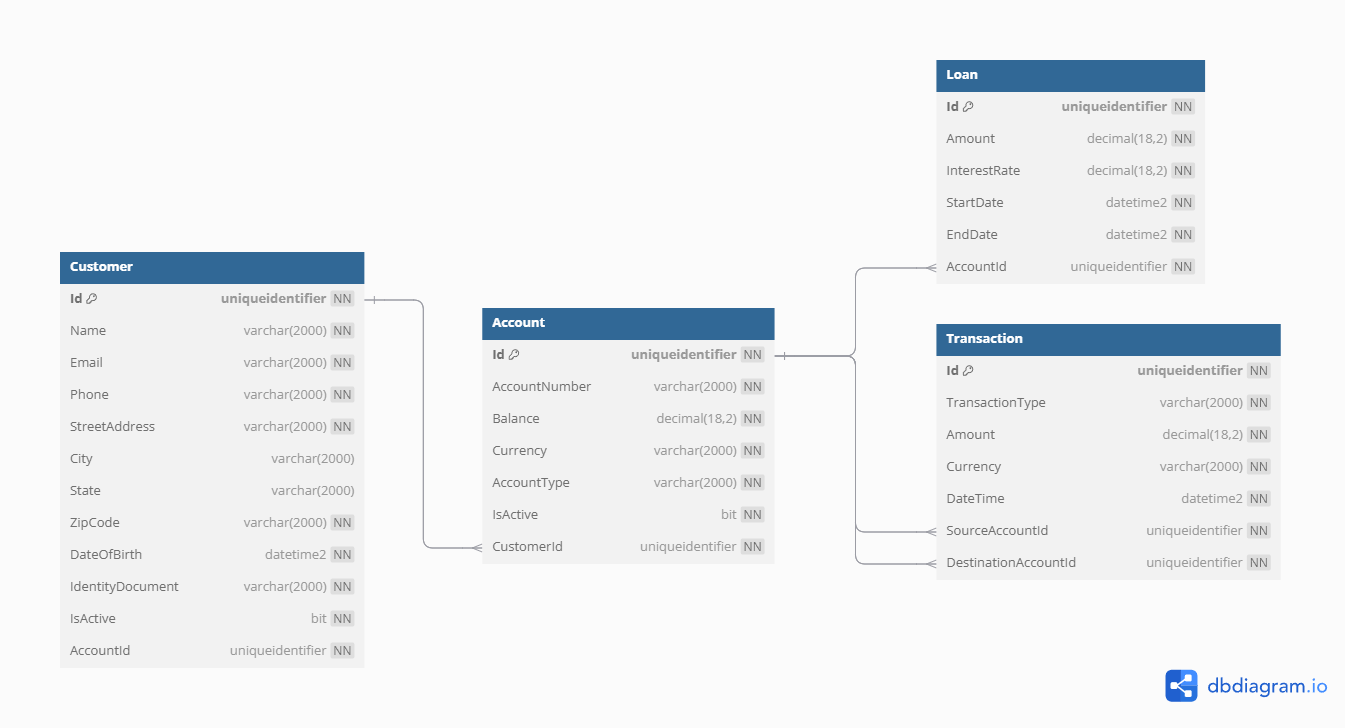
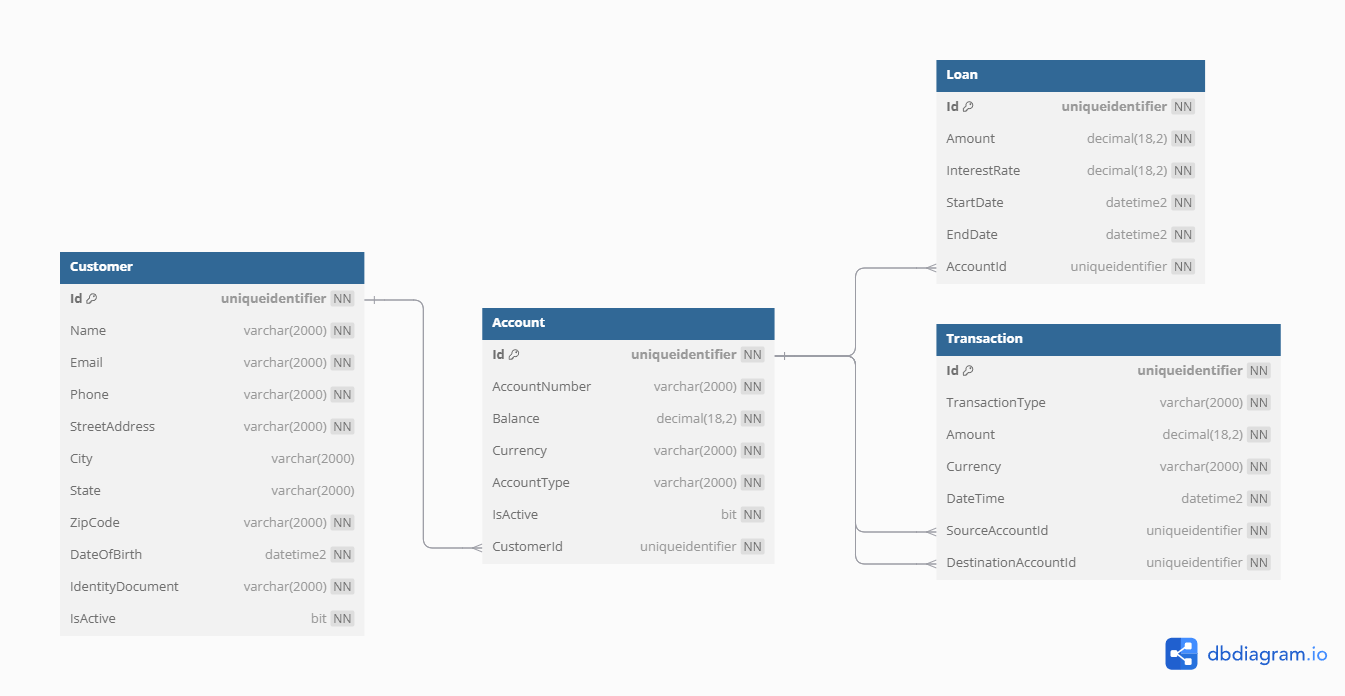
updated initial migration and seed database script

diff --git a/src/ReactBank.Infra.Data/Migrations/20241023234019_SeedData.cs b/src/ReactBank.Infra.Data/Migrations/20241023234019_SeedData.cs
@@ -1,0 +1,71 @@
+using System;
+using Microsoft.EntityFrameworkCore.Migrations;
+
+#nullable disable
+
+#pragma warning disable CA1814 // Prefer jagged arrays over multidimensional
+
+namespace ReactBank.Infra.Data.Migrations
+{
+    /// <inheritdoc />
+    public partial class SeedData : Migration
+    {
+        /// <inheritdoc />
+        protected override void Up(MigrationBuilder migrationBuilder)
+        {
+            migrationBuilder.InsertData(
+                table: "Customer",
+                columns: new[] { "Id", "City", "DateOfBirth", "Email", "IdentityDocument", "IsActive", "Name", "Phone", "State", "StreetAddress", "ZipCode" },
+                values: new object[,]
+                {
+                    { new Guid("849b24e4-f29a-4fb4-91b7-7a9b65795bf6"), "New York", new DateTime(1980, 1, 1, 0, 0, 0, 0, DateTimeKind.Unspecified), "john.doe@gmail.com", "123456789", true, "John Doe", "123456789", "NY", "123 Main St", "12345" },
+                    { new Guid("888b24e4-f29a-4fb4-91b7-7a9b65795bf6"), "New York", new DateTime(1995, 1, 2, 0, 0, 0, 0, DateTimeKind.Unspecified), "son.doe@gmail.com", "823456789", false, "Son Doe", "823456789", "NY", "125 Main St", "12347" },
+                    { new Guid("889b24e4-f29a-4fb4-91b7-7a9b65795bf6"), "New York", new DateTime(1980, 1, 2, 0, 0, 0, 0, DateTimeKind.Unspecified), "mary.doe@gmail.com", "923456789", true, "Mary Doe", "923456789", "NY", "124 Main St", "12346" }
+                });
+
+            migrationBuilder.InsertData(
+                table: "Account",
+                columns: new[] { "Id", "AccountNumber", "AccountType", "Balance", "Currency", "CustomerId", "IsActive" },
+                values: new object[,]
+                {
+                    { new Guid("ba669725-8233-434a-9b1e-751dd752e419"), "123456789", "Checking Account", 1000m, "US$", new Guid("849b24e4-f29a-4fb4-91b7-7a9b65795bf6"), true },
+                    { new Guid("ba769725-8233-434a-9b1e-751dd752e419"), "923456789", "Saving Account", 900m, "US$", new Guid("889b24e4-f29a-4fb4-91b7-7a9b65795bf6"), true },
+                    { new Guid("ba869725-8233-434a-9b1e-751dd752e419"), "823456789", "Student Account", 850m, "US$", new Guid("888b24e4-f29a-4fb4-91b7-7a9b65795bf6"), false }
+                });
+        }
+
+        /// <inheritdoc />
+        protected override void Down(MigrationBuilder migrationBuilder)
+        {
+            migrationBuilder.DeleteData(
+                table: "Account",
+                keyColumn: "Id",
+                keyValue: new Guid("ba669725-8233-434a-9b1e-751dd752e419"));
+
+            migrationBuilder.DeleteData(
+                table: "Account",
+                keyColumn: "Id",
+                keyValue: new Guid("ba769725-8233-434a-9b1e-751dd752e419"));
+
+            migrationBuilder.DeleteData(
+                table: "Account",
+                keyColumn: "Id",
+                keyValue: new Guid("ba869725-8233-434a-9b1e-751dd752e419"));
+
+            migrationBuilder.DeleteData(
+                table: "Customer",
+                keyColumn: "Id",
+                keyValue: new Guid("849b24e4-f29a-4fb4-91b7-7a9b65795bf6"));
+
+            migrationBuilder.DeleteData(
+                table: "Customer",
+                keyColumn: "Id",
+                keyValue: new Guid("888b24e4-f29a-4fb4-91b7-7a9b65795bf6"));
+
+            migrationBuilder.DeleteData(
+                table: "Customer",
+                keyColumn: "Id",
+                keyValue: new Guid("889b24e4-f29a-4fb4-91b7-7a9b65795bf6"));
+        }
+    }
+}

diff --git a/src/ReactBank.Infra.Data/Context/Configurations/CustomerEntityTypeConfiguration.cs b/src/ReactBank.Infra.Data/Context/Configurations/CustomerEntityTypeConfiguration.cs
@@ -10,6 +10,7 @@ namespace ReactBank.Infra.Data.Context.Configurations
         {
             base.Configure(builder);
 
+            //Property configurations
             builder.Property(x => x.Name)
                 .IsRequired();
 
@@ -28,12 +29,57 @@ namespace ReactBank.Infra.Data.Context.Configurations
             builder.Property(x => x.ZipCode)
                 .IsRequired();
 
+            //Index configurations
             builder.HasIndex(x => x.Name);
             builder.HasIndex(x => x.Email);
 
-            builder.HasOne(x => x.Account)
-                .WithOne(x => x.Customer)
-                .HasForeignKey<Account>(x => x.CustomerId);
+            //Global query filter
+            builder.HasQueryFilter(x => x.IsActive);
+
+            //Seed data
+            builder.HasData(
+                new Customer
+                {
+                    Id = Guid.Parse("849b24e4-f29a-4fb4-91b7-7a9b65795bf6"),
+                    IsActive = true,
+                    Name = "John Doe",
+                    IdentityDocument = "123456789",
+                    Phone = "123456789",
+                    StreetAddress = "123 Main St",
+                    ZipCode = "12345",
+                    State = "NY",
+                    City = "New York",
+                    DateOfBirth = new DateTime(1980, 1, 1),
+                    Email = "john.doe@gmail.com"
+                },
+                new Customer
+                {
+                    Id = Guid.Parse("889b24e4-f29a-4fb4-91b7-7a9b65795bf6"),
+                    IsActive = true,
+                    Name = "Mary Doe",
+                    IdentityDocument = "923456789",
+                    Phone = "923456789",
+                    StreetAddress = "124 Main St",
+                    ZipCode = "12346",
+                    State = "NY",
+                    City = "New York",
+                    DateOfBirth = new DateTime(1980, 1, 2),
+                    Email = "mary.doe@gmail.com"
+                },
+                new Customer
+                {
+                    Id = Guid.Parse("888b24e4-f29a-4fb4-91b7-7a9b65795bf6"),
+                    IsActive = false,
+                    Name = "Son Doe",
+                    IdentityDocument = "823456789",
+                    Phone = "823456789",
+                    StreetAddress = "125 Main St",
+                    ZipCode = "12347",
+                    State = "NY",
+                    City = "New York",
+                    DateOfBirth = new DateTime(1995, 1, 2),
+                    Email = "son.doe@gmail.com"
+                });
         }
     }
 }

diff --git a/src/ReactBank.Infra.Data/Context/Configurations/AccountEntityTypeConfiguration.cs b/src/ReactBank.Infra.Data/Context/Configurations/AccountEntityTypeConfiguration.cs
@@ -11,6 +11,7 @@ namespace ReactBank.Infra.Data.Context.Configurations
         {
             base.Configure(builder);
 
+            //Property configurations
             builder.Property(x => x.Balance)
                 .IsRequired();
 
@@ -26,10 +27,7 @@ namespace ReactBank.Infra.Data.Context.Configurations
             builder.Property(x => x.IsActive)
                 .IsRequired();
 
-            builder.HasOne(x => x.Customer)
-                .WithOne(x => x.Account)
-                .HasForeignKey<Account>(x => x.CustomerId);
-
+            //Relationships
             builder.HasMany(x => x.Loans)
                 .WithOne(x => x.Account)
                 .HasForeignKey(x => x.AccountId);
@@ -42,7 +40,43 @@ namespace ReactBank.Infra.Data.Context.Configurations
             builder.HasMany<Transaction>()
                 .WithOne(x => x.DestinationAccount)
                 .HasForeignKey(x => x.DestinationAccountId)
-                .OnDelete(DeleteBehavior.Restrict);
+            .OnDelete(DeleteBehavior.Restrict);
+
+            //Global query filter
+            builder.HasQueryFilter(x => x.IsActive);
+
+            //Seed data
+            builder.HasData(
+                new Account
+                {
+                    Id = Guid.Parse("ba669725-8233-434a-9b1e-751dd752e419"),
+                    AccountNumber = "123456789",
+                    Balance = 1000,
+                    Currency = "US$",
+                    AccountType = "Checking Account",
+                    IsActive = true,
+                    CustomerId = Guid.Parse("849b24e4-f29a-4fb4-91b7-7a9b65795bf6")
+                },
+                new Account
+                {
+                    Id = Guid.Parse("ba769725-8233-434a-9b1e-751dd752e419"),
+                    AccountNumber = "923456789",
+                    Balance = 900,
+                    Currency = "US$",
+                    AccountType = "Saving Account",
+                    IsActive = true,
+                    CustomerId = Guid.Parse("889b24e4-f29a-4fb4-91b7-7a9b65795bf6")
+                },
+                new Account
+                {
+                    Id = Guid.Parse("ba869725-8233-434a-9b1e-751dd752e419"),
+                    AccountNumber = "823456789",
+                    Balance = 850,
+                    Currency = "US$",
+                    AccountType = "Student Account",
+                    IsActive = false,
+                    CustomerId = Guid.Parse("888b24e4-f29a-4fb4-91b7-7a9b65795bf6")
+                });
         }
     }
 }

diff --git a/src/ReactBank.Infra.Data/Migrations/20241023224717_InitialMigration.Designer.cs b/src/ReactBank.Infra.Data/Migrations/20241023224717_InitialMigration.Designer.cs
@@ -12,7 +12,7 @@ using ReactBank.Infra.Data.Context;
 namespace ReactBank.Infra.Data.Migrations
 {
     [DbContext(typeof(ApplicationDbContext))]
-    [Migration("20241023222719_InitialMigration")]
+    [Migration("20241023224717_InitialMigration")]
     partial class InitialMigration
     {
         /// <inheritdoc />
@@ -63,8 +63,7 @@ namespace ReactBank.Infra.Data.Migrations
 
                     b.HasKey("Id");
 
-                    b.HasIndex("CustomerId")
-                        .IsUnique();
+                    b.HasIndex("CustomerId");
 
                     b.ToTable("Account");
                 });
@@ -73,9 +72,6 @@ namespace ReactBank.Infra.Data.Migrations
                 {
                     b.Property<Guid>("Id")
                         .ValueGeneratedOnAdd()
-                        .HasColumnType("uniqueidentifier");
-
-                    b.Property<Guid>("AccountId")
                         .HasColumnType("uniqueidentifier");
 
                     b.Property<string>("City")
@@ -211,8 +207,8 @@ namespace ReactBank.Infra.Data.Migrations
             modelBuilder.Entity("ReactBank.Domain.Models.Account", b =>
                 {
                     b.HasOne("ReactBank.Domain.Models.Customer", "Customer")
-                        .WithOne("Account")
-                        .HasForeignKey("ReactBank.Domain.Models.Account", "CustomerId")
+                        .WithMany()
+                        .HasForeignKey("CustomerId")
                         .OnDelete(DeleteBehavior.Restrict)
                         .IsRequired();
 
@@ -254,12 +250,6 @@ namespace ReactBank.Infra.Data.Migrations
                     b.Navigation("Loans");
 
                     b.Navigation("Transactions");
-                });
-
-            modelBuilder.Entity("ReactBank.Domain.Models.Customer", b =>
-                {
-                    b.Navigation("Account")
-                        .IsRequired();
                 });
 #pragma warning restore 612, 618
         }

diff --git a/src/ReactBank.Infra.Data/Migrations/20241023224717_InitialMigration.cs b/src/ReactBank.Infra.Data/Migrations/20241023224717_InitialMigration.cs
@@ -25,8 +25,7 @@ namespace ReactBank.Infra.Data.Migrations
                     ZipCode = table.Column<string>(type: "varchar(2000)", unicode: false, maxLength: 2000, nullable: false),
                     DateOfBirth = table.Column<DateTime>(type: "datetime2", nullable: false),
                     IdentityDocument = table.Column<string>(type: "varchar(2000)", unicode: false, maxLength: 2000, nullable: false),
-                    IsActive = table.Column<bool>(type: "bit", nullable: false),
-                    AccountId = table.Column<Guid>(type: "uniqueidentifier", nullable: false)
+                    IsActive = table.Column<bool>(type: "bit", nullable: false)
                 },
                 constraints: table =>
                 {
@@ -110,8 +109,7 @@ namespace ReactBank.Infra.Data.Migrations
             migrationBuilder.CreateIndex(
                 name: "IX_Account_CustomerId",
                 table: "Account",
-                column: "CustomerId",
-                unique: true);
+                column: "CustomerId");
 
             migrationBuilder.CreateIndex(
                 name: "IX_Customer_Email",

diff --git a/src/ReactBank.Infra.Data/Migrations/20241023234019_SeedData.Designer.cs b/src/ReactBank.Infra.Data/Migrations/20241023234019_SeedData.Designer.cs
@@ -3,6 +3,7 @@ using System;
 using Microsoft.EntityFrameworkCore;
 using Microsoft.EntityFrameworkCore.Infrastructure;
 using Microsoft.EntityFrameworkCore.Metadata;
+using Microsoft.EntityFrameworkCore.Migrations;
 using Microsoft.EntityFrameworkCore.Storage.ValueConversion;
 using ReactBank.Infra.Data.Context;
 
@@ -11,9 +12,11 @@ using ReactBank.Infra.Data.Context;
 namespace ReactBank.Infra.Data.Migrations
 {
     [DbContext(typeof(ApplicationDbContext))]
-    partial class ApplicationDbContextModelSnapshot : ModelSnapshot
+    [Migration("20241023234019_SeedData")]
+    partial class SeedData
     {
-        protected override void BuildModel(ModelBuilder modelBuilder)
+        /// <inheritdoc />
+        protected override void BuildTargetModel(ModelBuilder modelBuilder)
         {
 #pragma warning disable 612, 618
             modelBuilder

diff --git a/src/ReactBank.Infra.Data/Context/Configurations/TransactionEntityTypeConfiguration.cs b/src/ReactBank.Infra.Data/Context/Configurations/TransactionEntityTypeConfiguration.cs
@@ -11,6 +11,7 @@ namespace ReactBank.Infra.Data.Context.Configurations
         {
             base.Configure(builder);
 
+            //Property configurations
             builder.Property(x => x.Amount)
                 .IsRequired();
 
@@ -20,10 +21,12 @@ namespace ReactBank.Infra.Data.Context.Configurations
             builder.Property(x => x.DateTime)
                 .IsRequired();
 
+            //Index configurations
             builder.HasIndex(x => x.DateTime);
             builder.HasIndex(x => x.DestinationAccountId);
             builder.HasIndex(x => x.SourceAccountId);
 
+            //Relationships
             builder.HasOne(x => x.SourceAccount)
                 .WithMany(x => x.Transactions)
                 .HasForeignKey(x => x.SourceAccountId)

diff --git a/src/ReactBank.Infra.Data/Context/Configurations/LoanEntityTypeConfiguration.cs b/src/ReactBank.Infra.Data/Context/Configurations/LoanEntityTypeConfiguration.cs
@@ -10,6 +10,7 @@ namespace ReactBank.Infra.Data.Context.Configurations
         {
             base.Configure(builder);
 
+            //Property configurations
             builder.Property(x => x.Amount)
                 .IsRequired();
 
@@ -32,6 +33,7 @@ namespace ReactBank.Infra.Data.Context.Configurations
             builder.Property(x => x.AccountId)
                 .IsRequired();
 
+            //Relationships
             builder.HasOne(x => x.Account)
                 .WithMany(x => x.Loans)
                 .HasForeignKey(x => x.AccountId);

diff --git a/src/ReactBank.Domain/Models/Customer.cs b/src/ReactBank.Domain/Models/Customer.cs
@@ -14,8 +14,5 @@ namespace ReactBank.Domain.Models
         public DateTime DateOfBirth { get; set; }
         public string IdentityDocument { get; set; }
         public bool IsActive { get; set; }
-
-        public Guid AccountId { get; set; }
-        public virtual Account Account { get; set; }
     }
 }
